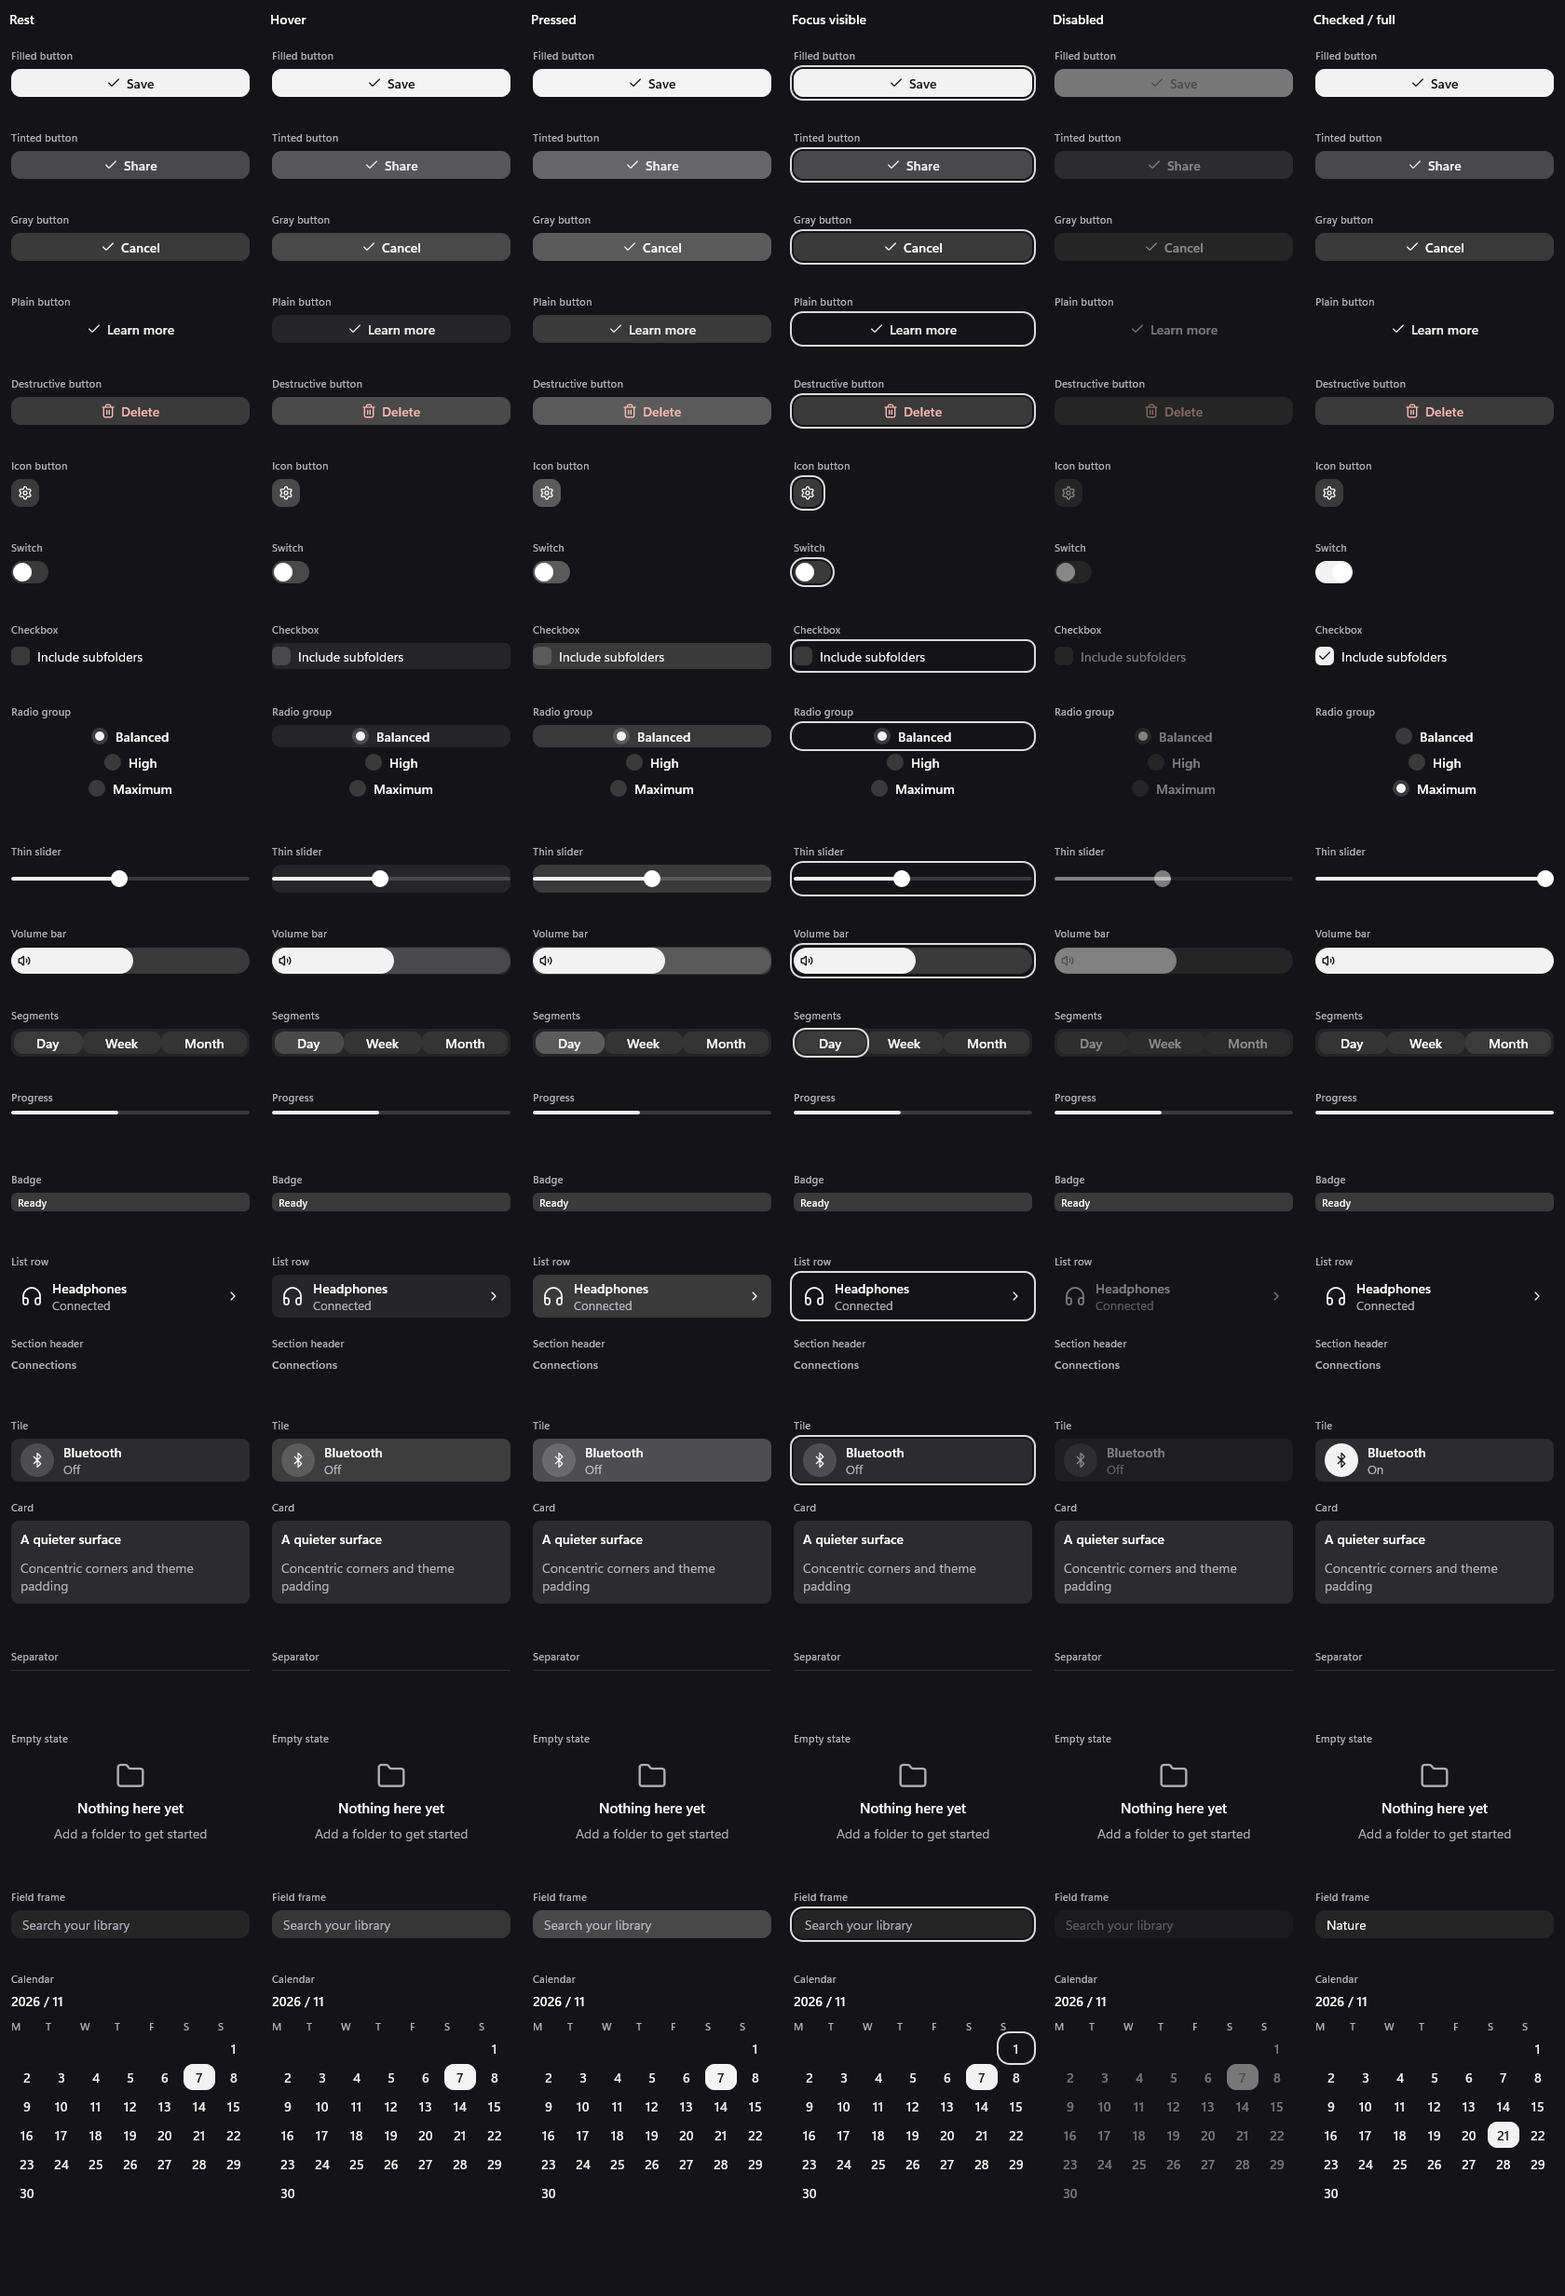
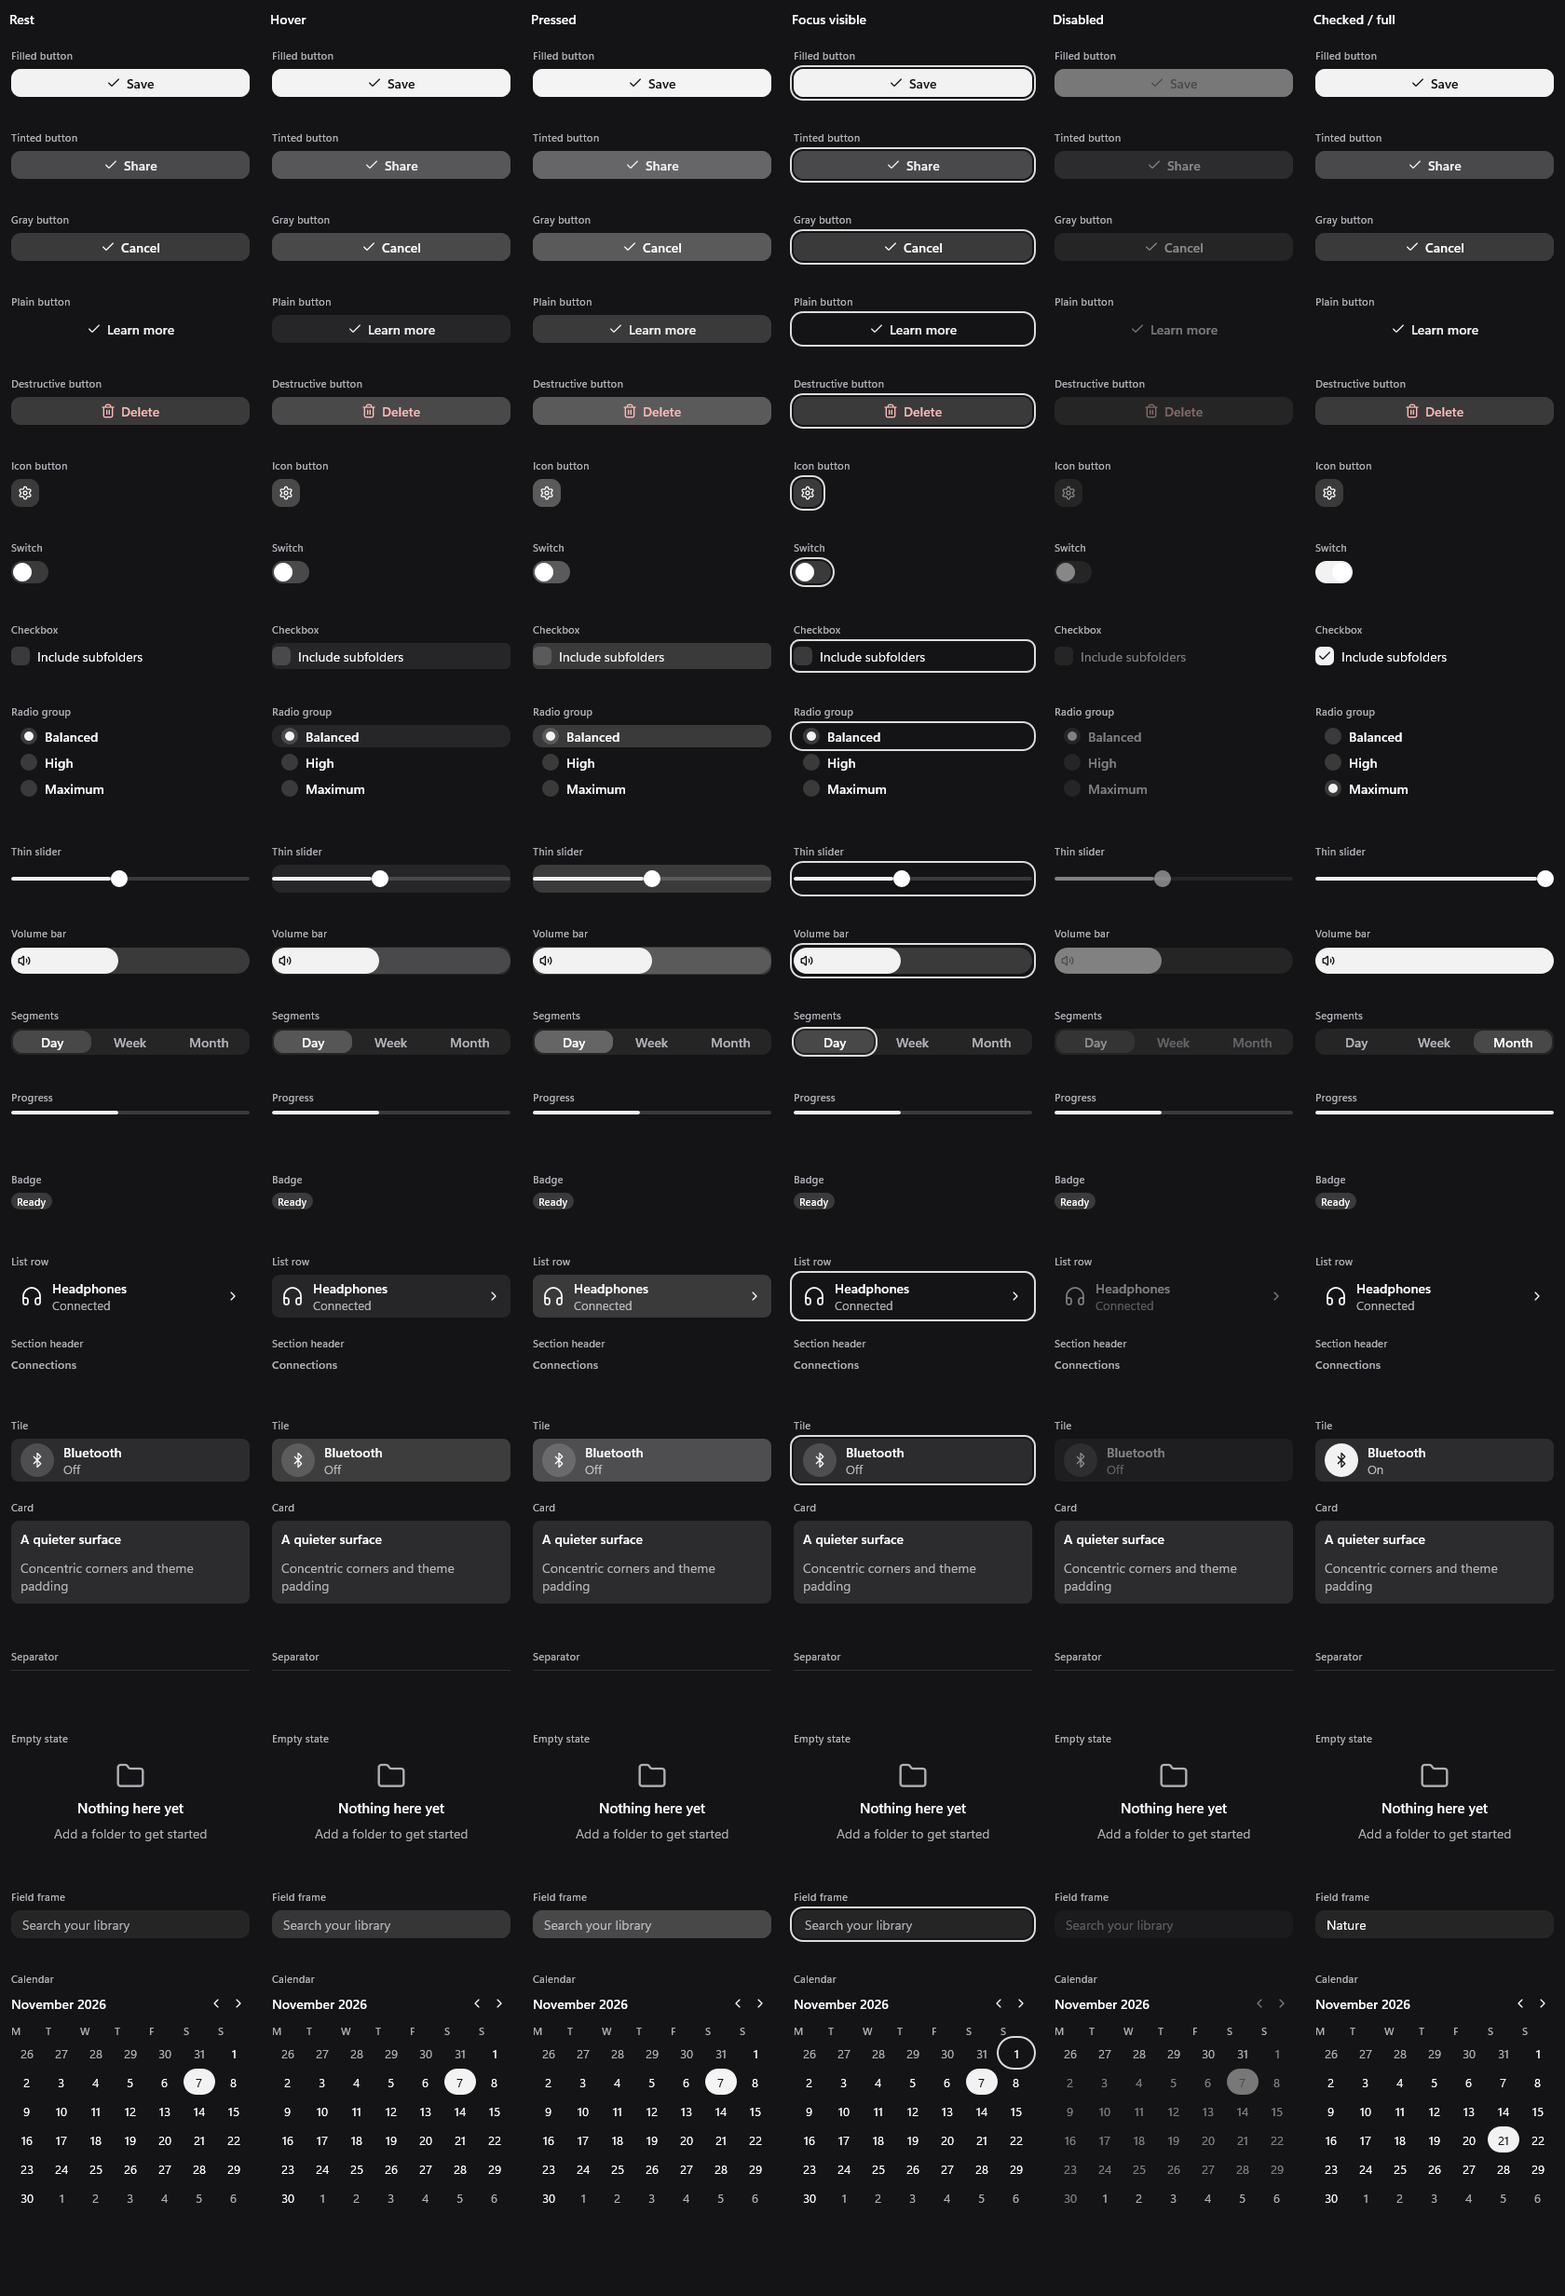
fix(kit): refresh polished goldens and verify motion frame strips

diff --git a/crates/stillkit-kit/tests/motion.rs b/crates/stillkit-kit/tests/motion.rs
@@ -1,0 +1,139 @@
+//! Motion snapshots use the same virtual-clock Script/--at path as el::run.
+#![cfg(windows)]
+#[allow(dead_code)]
+#[path = "../examples/support/mod.rs"]
+mod support;
+use std::{path::Path, time::Duration};
+use stillkit::{
+    Image,
+    el::{Runtime, Script},
+};
+
+fn runtime(component: usize) -> Runtime<support::State> {
+    let theme = support::themes().remove(0).1;
+    let bg = theme.color.surface.with_alpha(1.);
+    let mut rt = Runtime::new(
+        support::State::default(),
+        move |s| {
+            stillkit::el::col()
+                .pad(12.)
+                .child(support::component(component, s, false))
+        },
+        theme,
+        (280, 100),
+        1.,
+    )
+    .unwrap();
+    rt.set_background(Some(bg));
+    rt.frame(Duration::ZERO);
+    rt
+}
+fn settle(rt: &mut Runtime<support::State>) {
+    for _ in 0..200 {
+        if !rt.animating() {
+            return;
+        }
+        rt.frame(Duration::from_millis(16));
+    }
+    panic!("motion did not settle");
+}
+#[test]
+fn selection_moves_without_rebuilding_and_stops() {
+    for (component, click, part) in [
+        (2, "target", "target/thumb"),
+        (7, "target/option-2", "target/selection"),
+    ] {
+        let mut rt = runtime(component);
+        assert!(!rt.animating());
+        let start = rt.presented(part).unwrap().rect;
+        assert!(rt.click(click));
+        rt.frame(Duration::ZERO);
+        let end = rt.find(part).unwrap();
+        let root = rt.find("target").unwrap();
+        assert!(
+            end.right <= root.right && end.bottom <= root.bottom,
+            "pill {end:?} outside {root:?}"
+        );
+        assert_ne!(start, end);
+        rt.frame(Duration::from_millis(50));
+        let mid = rt.presented(part).unwrap().rect;
+        assert!(
+            mid.left > start.left && mid.left < end.left,
+            "{mid:?}, {start:?}, {end:?}"
+        );
+        let runs = rt.view_runs();
+        settle(&mut rt);
+        assert_eq!(rt.view_runs(), runs);
+        assert_eq!(rt.presented(part).unwrap().rect, end);
+        assert!(!rt.frame(Duration::from_secs(1)));
+    }
+}
+#[test]
+fn reduced_travel_instant_updates_and_drag_land_at_once() {
+    let mut rt = runtime(2);
+    rt.set_reduced_motion(true);
+    rt.click("target");
+    rt.frame(Duration::ZERO);
+    assert_eq!(
+        rt.presented("target/thumb").unwrap().rect,
+        rt.find("target/thumb").unwrap()
+    );
+    settle(&mut rt);
+    rt.update_instant(|s| s.on = false);
+    rt.frame(Duration::ZERO);
+    assert!(!rt.animating());
+    let mut rt = runtime(5);
+    rt.update(|s| s.value = 0.8);
+    rt.frame(Duration::ZERO);
+    assert!(rt.animating());
+    settle(&mut rt);
+    let r = rt.find("target").unwrap();
+    rt.pointer_down(r.left + r.width() * 0.2, r.center().y);
+    rt.frame(Duration::ZERO);
+    assert_eq!(
+        rt.presented("target/fill").unwrap().rect,
+        rt.find("target/fill").unwrap()
+    );
+}
+fn strip(frames: &[Image]) -> Image {
+    let (w, h) = (frames[0].width, frames[0].height);
+    let width = w * frames.len() as u32;
+    let mut pixels = vec![0; (width * h * 4) as usize];
+    for (n, f) in frames.iter().enumerate() {
+        for y in 0..h as usize {
+            let at = (y * width as usize + n * w as usize) * 4;
+            pixels[at..at + w as usize * 4]
+                .copy_from_slice(&f.pixels[y * w as usize * 4..(y + 1) * w as usize * 4]);
+        }
+    }
+    Image {
+        width,
+        height: h,
+        pixels,
+    }
+}
+#[test]
+fn golden_motion_strips() {
+    for (name, component, click) in [
+        ("switch", 2, "target"),
+        ("segmented", 7, "target/option-2"),
+        ("checkbox", 3, "target"),
+    ] {
+        let script = Script::parse(&format!(r#"[{{"at":0.1,"click":"{click}"}}]"#)).unwrap();
+        let frames: Vec<_> = [0.1, 0.15, 0.2, 0.3, 0.45, 1.5]
+            .into_iter()
+            .map(|at| {
+                let mut rt = runtime(component);
+                rt.play(&script, Some(Duration::from_secs_f64(at)));
+                rt.frame(Duration::ZERO);
+                rt.snap().unwrap()
+            })
+            .collect();
+        stillkit::golden::check(
+            &strip(&frames),
+            &Path::new(env!("CARGO_MANIFEST_DIR"))
+                .join(format!("../../docs/media/kit/motion-{name}.png")),
+        )
+        .unwrap();
+    }
+}

diff --git a/crates/stillkit-kit/tests/runtime.rs b/crates/stillkit-kit/tests/runtime.rs
@@ -124,6 +124,33 @@ mod native {
         }
     }
     #[test]
+    fn calendar_navigation_wraps_year_and_stops_at_boundaries() {
+        use stillkit_kit::CalendarMonth;
+        for (year, month, action, expected) in [
+            (2026, 12, "next", (2027, 1)),
+            (2026, 1, "previous", (2025, 12)),
+            (1, 1, "previous", (1, 1)),
+            (9999, 12, "next", (9999, 12)),
+        ] {
+            let mut rt = Runtime::new(
+                (year, month),
+                |&(y, m)| {
+                    CalendarMonth::new(y, m)
+                        .key("cal")
+                        .on_month_change(|s, month| *s = month)
+                        .build()
+                },
+                support::themes().remove(0).1,
+                (320, 320),
+                1.,
+            )
+            .unwrap();
+            rt.click(&format!("cal/{action}"));
+            rt.frame(Duration::ZERO);
+            assert_eq!(*rt.state(), expected);
+        }
+    }
+    #[test]
     fn rendered_text_contrast_on_its_own_surface() {
         use stillkit::Op;
         use stillkit::theme::{contrast, over};
@@ -175,7 +202,13 @@ mod native {
                             "S",
                         ]
                         .contains(&text.as_ref());
-                        let floor = if secondary { 4.5 } else { 7. };
+                        let outside_month = i == 17
+                            && r.tree().iter().any(|node| {
+                                (node.path.contains("/previous-")
+                                    || node.path.contains("/following-"))
+                                    && node.rect.contains(rect.center())
+                            });
+                        let floor = if secondary || outside_month { 4.5 } else { 7. };
                         assert!(
                             contrast(*color, bg) >= floor,
                             "{name} component {i} {text}: {} < {floor} over {bg:?}, ink {color:?}",

diff --git a/crates/stillkit-kit/examples/support/mod.rs b/crates/stillkit-kit/examples/support/mod.rs
@@ -148,6 +148,7 @@ pub fn component(i: usize, s: &State, disabled: bool) -> El<State> {
             .build()
             .key("target"),
         17 => CalendarMonth::new(2026, 11)
+            .today(7)
             .selected(s.day)
             .key("target")
             .disabled(disabled)
@@ -287,6 +288,7 @@ pub fn sheet(theme: Theme) -> anyhow::Result<Image> {
                 }
                 rt.frame(Duration::ZERO);
             }
+            rt.frame(Duration::from_secs(2));
             paste(&mut sheet, &rt.snap()?, state as u32 * 280, y);
             y += cell_height(i);
         }

diff --git a/crates/stillkit-kit/README.md b/crates/stillkit-kit/README.md
@@ -30,14 +30,22 @@ Radio and segmented options support Tab + Enter/Space; arrow selection and slide
 keyboard stepping are pending the capability below. Components without a callback
 are display-only, as specified by today's el semantics. Calendar clamps invalid
 month/year inputs; values clamp to 0..=1 (NaN becomes zero). Slider steps must be
-positive finite fractions of the range. Calendar has no built-in month navigation;
-rebuild with a new month from the host's navigation actions.
+positive finite fractions of the range. Calendar exposes `on_month_change` with
+a (year, month) pair; rebuild from that value. `today(day)` is supplied by the host only for the current month.
 
 Ring and Tooltip are deferred rather than implemented through the old Frame API.
 TextFieldFrame is intentionally a frame, not an editor.
 
 ## Needed from el
 
+- **Interaction wash motion:** connect el's retained hover/press painting to the
+  existing interaction animator and theme interactive token (including reduced
+  motion and idle disarming). `Frame::wash` supports it, but el does not supply it;
+  `.motion` cannot observe hover/press state from a component view.
+- **Absolute percentage sizing:** nested `.absolute(0., 0.).w_full()` currently
+  resolves against the headless root width instead of its padded parent. The
+  segmented pill uses a zero-height flex rail to avoid this; no el workaround was
+  added outside the kit.
 - **Key actions and groups:** public typed key handler or range/group builders.
   Slider needs Left/Down decrement and Right/Up increment, Home/End, an explicit
   step, and accessible min/max/current value. Radio/segmented need roving focus,
@@ -60,12 +68,18 @@ TextFieldFrame is intentionally a frame, not an editor.
   semantic value/description and non-actionable, enabled roles for progress, labels,
   separators and groups without adding them to keyboard focus order.
 
-## Motion later
+## Motion
 
-Add `.motion(..)` at button/icon fills, switch thumbs, checkbox/radio marks,
-slider fill/thumb, segmented selection plate, tile disc, progress fraction and
-calendar selection. Retain the part keys above for retargeting. No motion is opted
-into here, and no timers, native windows or background work are created by the kit.
+Interactive theme springs drive switch tracks/thumbs, checkbox checks, radio dots,
+slider fill/thumb, the single sliding segmented pill, tile discs, progress and
+calendar selection. Badge text enters/exits with a short slide/fade while the pill
+resizes. Stable part keys retain velocity when a value changes mid-flight. Runtime
+owns the clock: first frames are static, reduced motion follows the host setting,
+and drag updates land instantly while external slider updates spring. No timers,
+native windows or background work are created by the kit.
+
+Hover/press washes still snap: see Needed from el. Opting a button into `.motion`
+only animates its element styles, not the runtime-owned interaction wash.
 
 ## Gallery and checks
 
@@ -97,9 +111,12 @@ icons, 40x24 switch, 18px slider thumb, 28px icon bar, capsule buttons and conce
 cards read as the same family. Deliberate differences: neutral fallback backgrounds
 replace the native gallery's wallpaper/glass stand-in; all presets use an accent
 icon bar (the old kit chose white for dark schemes); AAA text shifts tinted/plain
-and destructive label ink and can darken primary fills. Rows and badges stretch to
-the parent unless the caller chooses cross-axis alignment or a width. The runtime
-currently washes/focuses the slider's whole target rather than only its thumb.
+and destructive label ink and can darken primary fills. Rows stretch to the parent;
+badges now keep an intrinsic compact pill.
+The gallery intentionally stretches buttons so state columns remain comparable.
+Segment labels use the kit's 7:1/4.5:1 ink floors; adjacent-month calendar dates
+are shown in secondary ink, and the calendar uses Monday-first Gregorian dates.
+The runtime currently washes/focuses the slider's whole target rather than only its thumb.
 Tooltip and rings are absent pending the public primitives above. Studio is a
 composition of existing parts, not a duplicate controls implementation.
 
@@ -108,8 +125,16 @@ snapshot path: optics are supplied by a host backdrop, not component code. The
 Fluent + Mono palette mix changes ink while keeping Fluent geometry and type.
 `docs/media/kit/overview.png` records the visual audit of all sixteen sheets.
 
-Validation on Windows: eight tests pass (including all sixteen golden sheets),
+Validation on Windows: twelve tests pass (including all sixteen golden sheets),
 clippy is clean for all targets, and `cargo check --target
 x86_64-unknown-linux-gnu` passes. The Linux core reports existing dead-code warnings
 in its compile-only platform path. All commands used the assigned target directory;
-tests used the documented LLVM override after the Cranelift panic exit.
+tests used the documented LLVM override.
+
+Motion goldens: `motion-{switch,segmented,checkbox}.png`, at 0.1, 0.15, 0.2,
+0.3, 0.45 and 1.5 seconds after a scripted click at 0.1. Tests call `Runtime::play`
+with an explicit `until`, the same path used by `--script` + `--at`. They also
+check first-frame/idle behavior, pill bounds, intermediate travel, reduced motion,
+instant updates and slider drag snapping. Static sheets settle interaction input
+before capture. Ring, Tooltip and keyboard stepping remain deferred for the el
+capability work; no files under `crates/stillkit` were changed.
